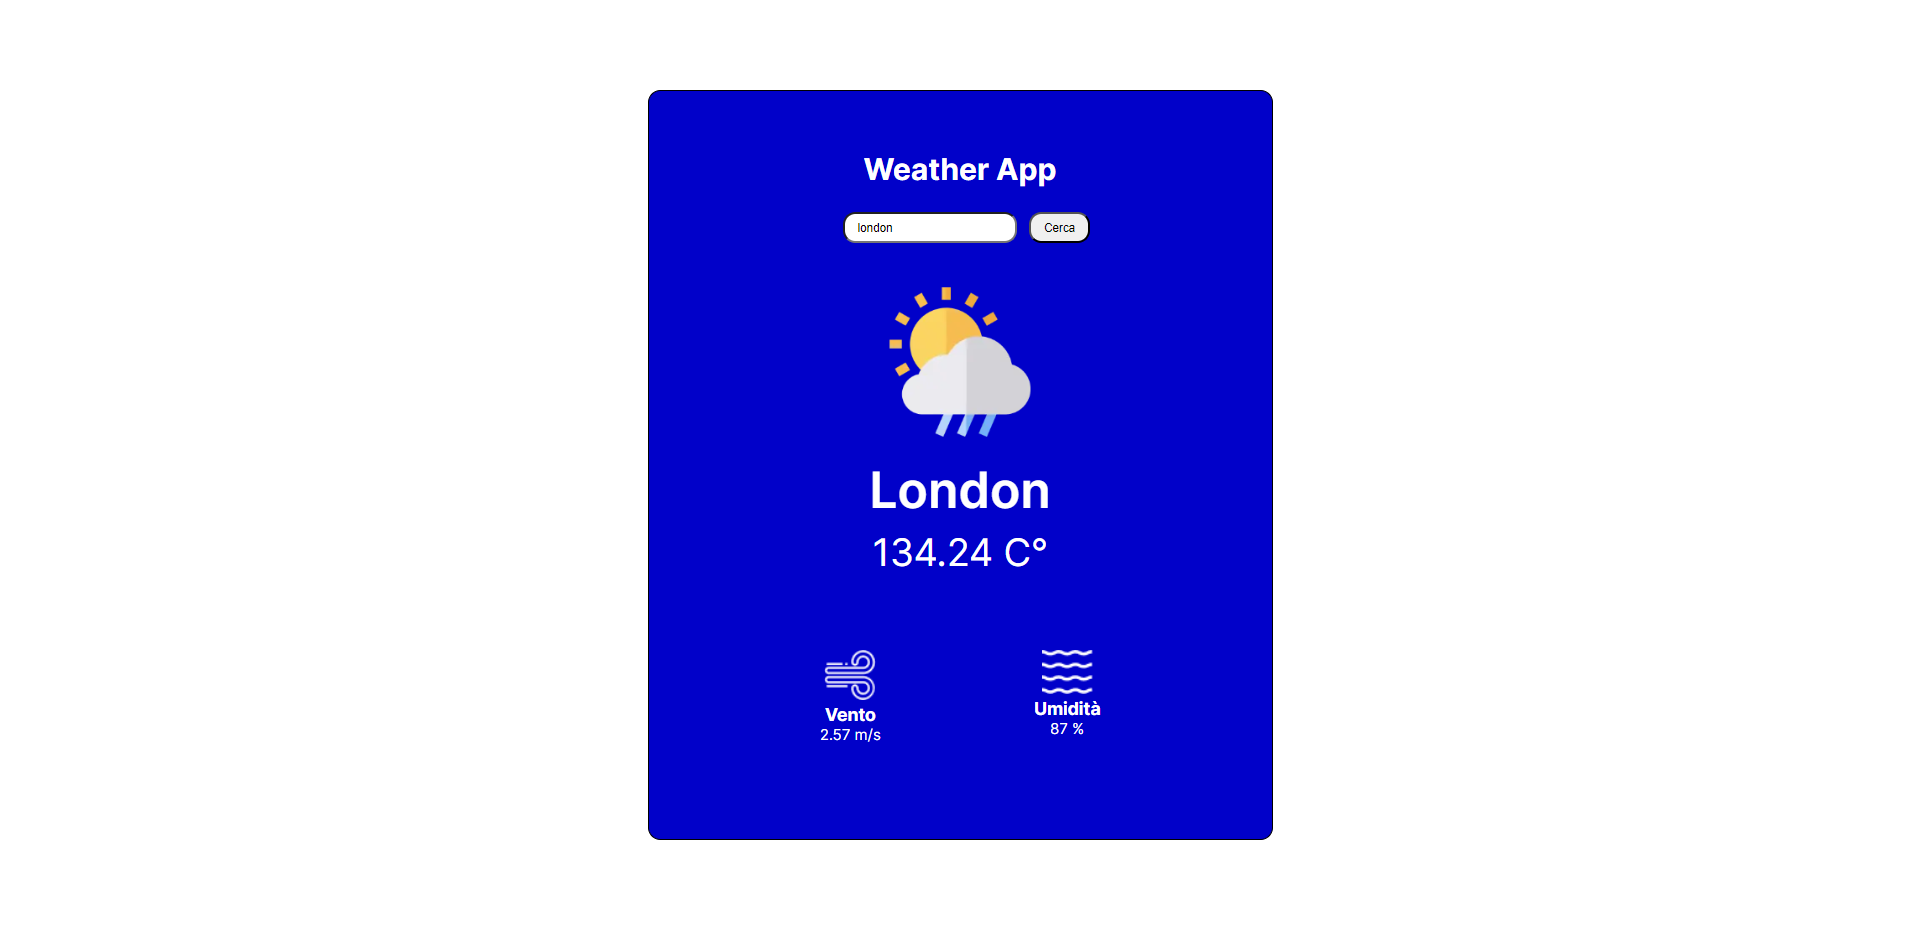
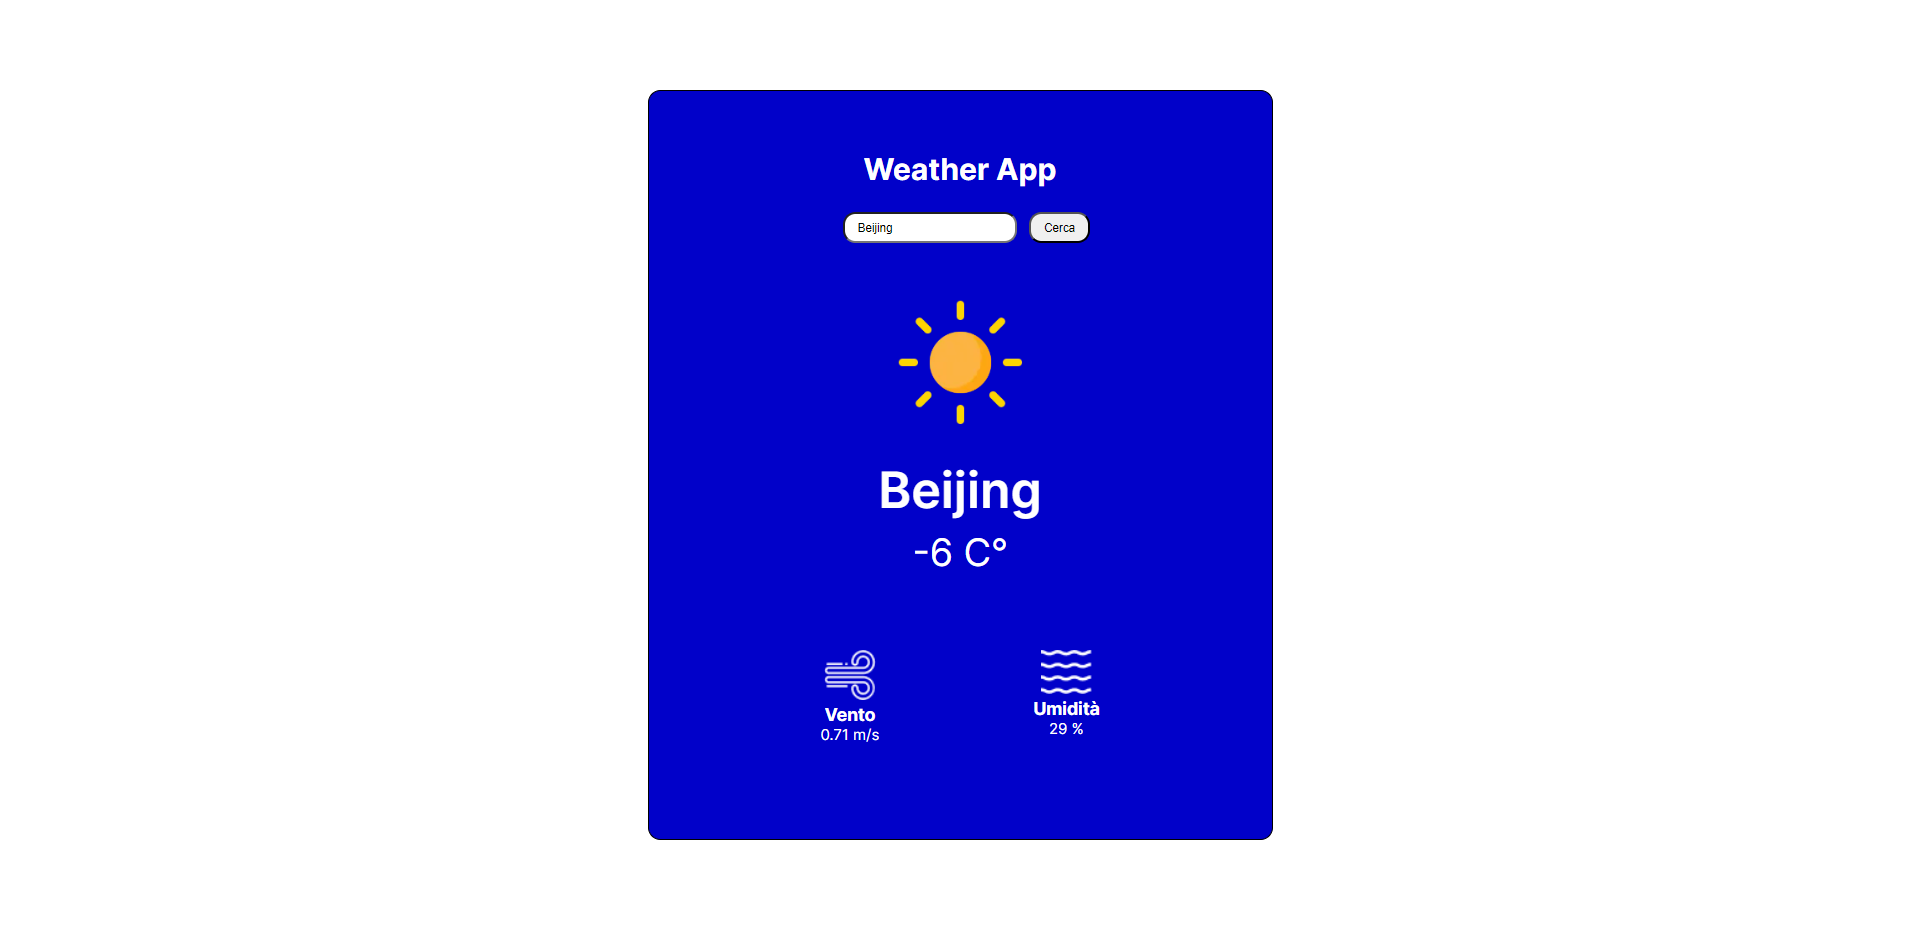
FIXED temperature

diff --git a/src/app/page.js b/src/app/page.js
@@ -25,8 +25,8 @@ export default function Home() {
 
   }
 
-  const fahrenheit = weatherData?.main?.temp
-  const celsius = ((5 / 9) * (fahrenheit - 32)).toFixed(2) + ' C°';
+  const kelvin = weatherData?.main?.temp
+  const celsius = Math.floor(kelvin - 273.15) + ' C°';
   const icon = weatherData?.weather[0]?.main
   const urlIcon = `/${icon}.png`;
   // console.log(icon, urlIcon)
@@ -60,7 +60,7 @@ export default function Home() {
             </h2>
 
             <div id={styles.temperature}>
-              {fahrenheit == null ? '' : celsius}
+              {kelvin == null ? '' : celsius}
             </div>
 
             <div className={styles.infos}>
@@ -74,7 +74,7 @@ export default function Home() {
                   Vento
                 </h3>
                 <div id='wind'>
-                  {fahrenheit == null ? '' : weatherData?.wind?.speed + ' m/s'}
+                  {kelvin == null ? '' : weatherData?.wind?.speed + ' m/s'}
                 </div>
               </div>
 
@@ -88,7 +88,7 @@ export default function Home() {
                   Umidità
                 </h3>
                 <div id='humidity'>
-                  {fahrenheit == null ? '' : weatherData?.main?.humidity + ' %'}
+                  {kelvin == null ? '' : weatherData?.main?.humidity + ' %'}
                 </div>
               </div>
 
